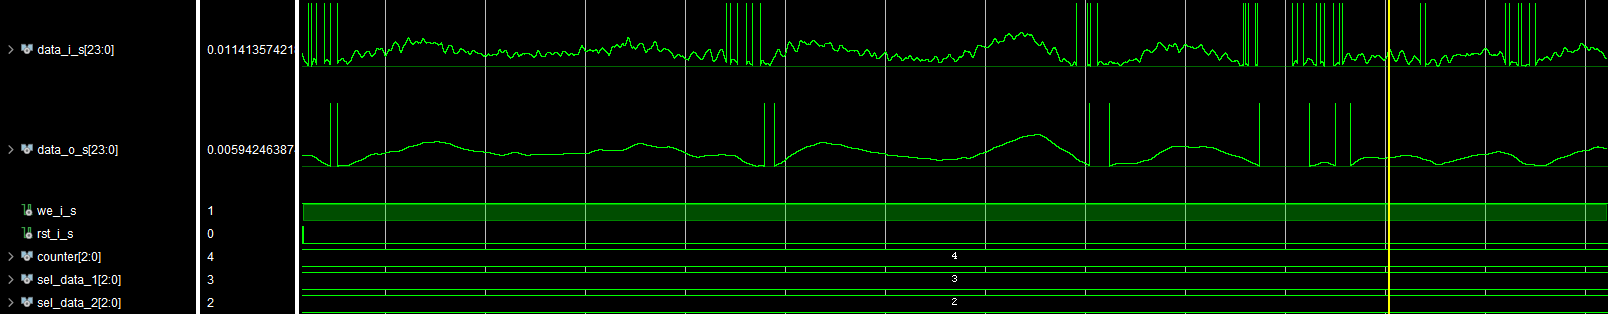
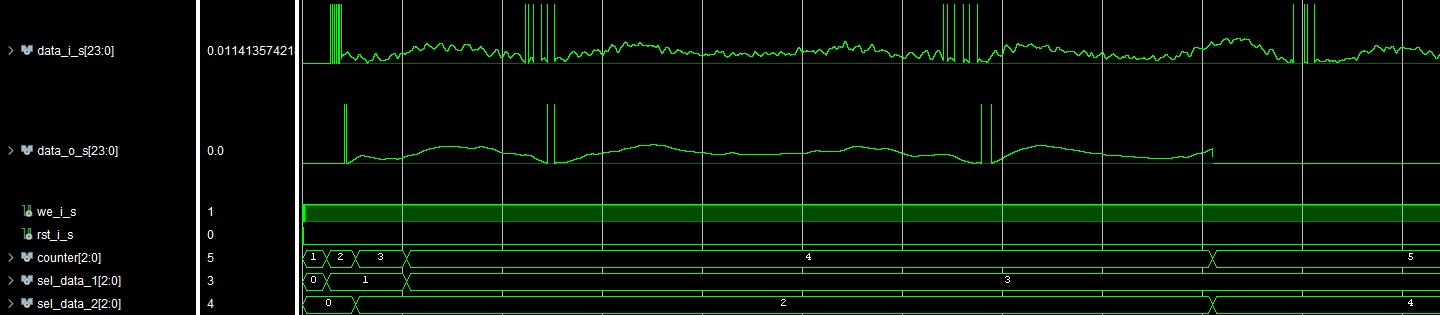
changes in 'README.md'

Changed region(s): [[0.0, 0.0, 1.0, 1.0], [0.0, 0.6592, 0.0625, 0.7739], [0.25, 0.4299, 0.2812, 0.4586]]

diff --git a/README.md b/README.md
@@ -1,2 +1,7 @@
 # Fault-Tolerant-FIR
+
+Blok šema
 ![NuGet](/Pair_and_spare_FIR.png)
+
+waveform - tolerisanje n-1 greške kod n-modularnog sistema (n = 5)
+![NuGet](/waveform_1.png)
